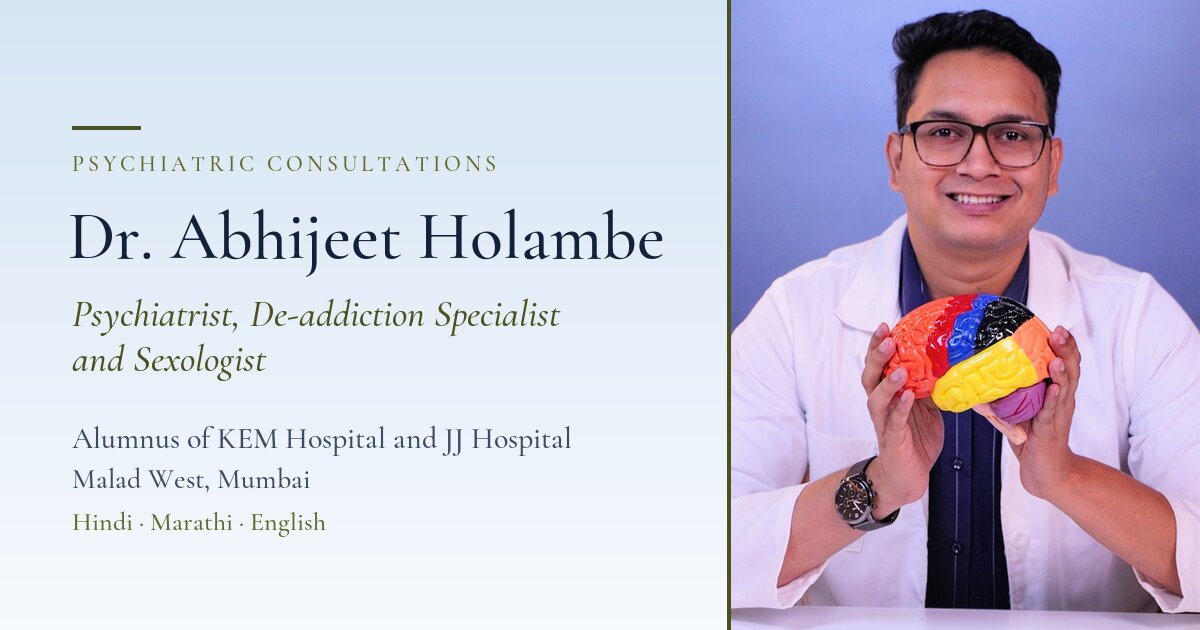
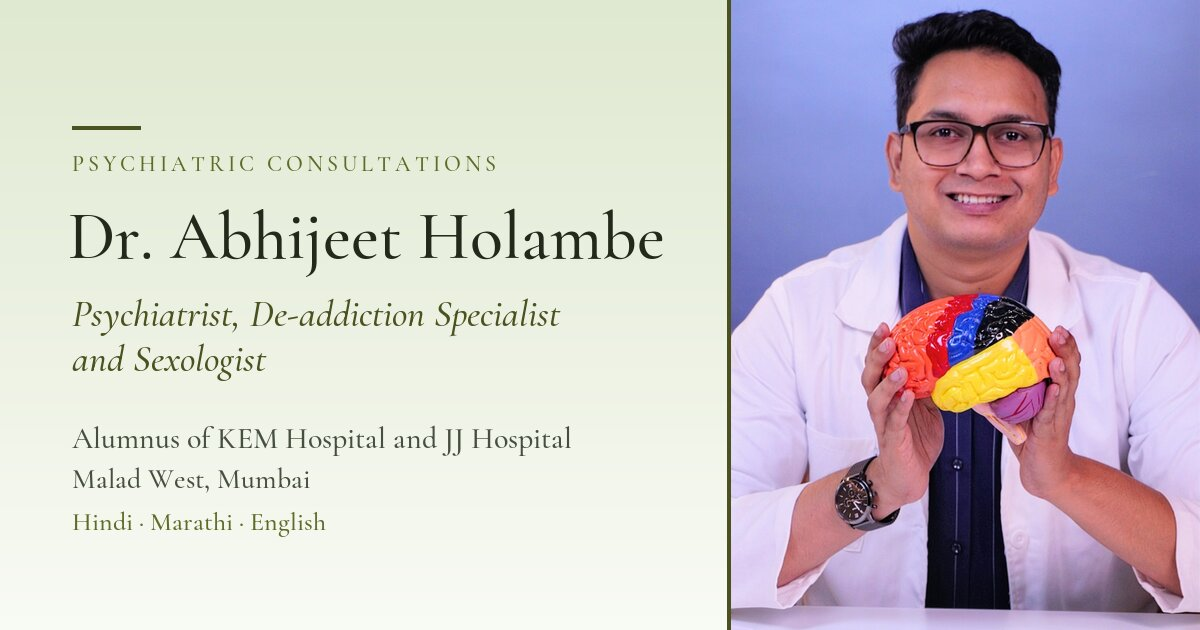
Warm the palette to sage with olive charcoal text
- Shift surfaces from blue tints to soft sage
- Change text and buttons from navy to deep olive charcoal
- Add soft olive and sage glows behind the hero
- Regenerate the share image in the sage palette

Claude-Session: https://claude.ai/code/session_01XdHcfgJtNrDD8ZB43irrfS

Changed region(s): [[0.0, 0.0, 0.6167, 0.6032], [0.37, 0.6937, 0.4008, 0.7238], [0.0925, 0.6937, 0.1233, 0.7238]]

diff --git a/src/app/globals.css b/src/app/globals.css
@@ -36,26 +36,26 @@
   --color-input: var(--input);
   --color-ring: var(--ring);
 
-  /* Brand palette: blue tinted surfaces, deep navy text, olive green accents */
-  --color-porcelain: #f6f9fd;
-  --color-mist: #e8f0fa;
-  --color-cloud: #d6e4f4;
-  --color-line: #d2deec;
-  --color-line-strong: #afc3da;
-  --color-ink: #13213a;
-  --color-ink-soft: #22385c;
-  --color-body: #3e4b60;
-  --color-subtle: #5a6679;
+  /* Brand palette: soft sage surfaces, deep olive charcoal text, olive green accents */
+  --color-porcelain: #f8faf4;
+  --color-mist: #edf2e4;
+  --color-cloud: #dfe8d0;
+  --color-line: #d6dfc7;
+  --color-line-strong: #b7c4a1;
+  --color-ink: #232a1b;
+  --color-ink-soft: #384229;
+  --color-body: #475040;
+  --color-subtle: #646d58;
   --color-olive-dark: #4a5320;
   --color-olive: #5f6b27;
   --color-olive-light: #d5ddb0;
-  --color-sky: #cfe0f4;
+  --color-sky: #dfe8cc;
 }
 
 :root {
   --radius: 0.75rem;
-  --background: #f6f9fd;
-  --foreground: #13213a;
+  --background: #f8faf4;
+  --foreground: #232a1b;
 }
 
 html { scroll-behavior: smooth; color-scheme: light; }

diff --git a/src/app/ui/hero.tsx b/src/app/ui/hero.tsx
@@ -5,6 +5,8 @@ import * as Info from "@/app/config/constants/info";
 export default function Hero() {
   return (
     <section id="hero" className="relative isolate overflow-hidden bg-gradient-to-br from-cloud via-mist to-porcelain pt-[72px] text-ink">
+      <div aria-hidden="true" className="pointer-events-none absolute -left-40 top-32 -z-10 h-[30rem] w-[30rem] rounded-full bg-olive-light/50 blur-3xl" />
+      <div aria-hidden="true" className="pointer-events-none absolute -bottom-40 right-0 -z-10 h-[34rem] w-[34rem] rounded-full bg-cloud blur-3xl" />
       <div aria-hidden="true" className="pointer-events-none absolute -right-40 -top-40 h-[36rem] w-[36rem] rounded-full border border-olive/30" />
       <div aria-hidden="true" className="pointer-events-none absolute -right-12 -top-10 h-[26rem] w-[26rem] rounded-full border border-olive/20" />
       <div className="relative mx-auto grid max-w-7xl items-center gap-12 px-5 pb-16 pt-12 sm:px-8 sm:pb-20 lg:min-h-[690px] lg:grid-cols-[1.08fr_0.92fr] lg:gap-16 lg:px-12">
